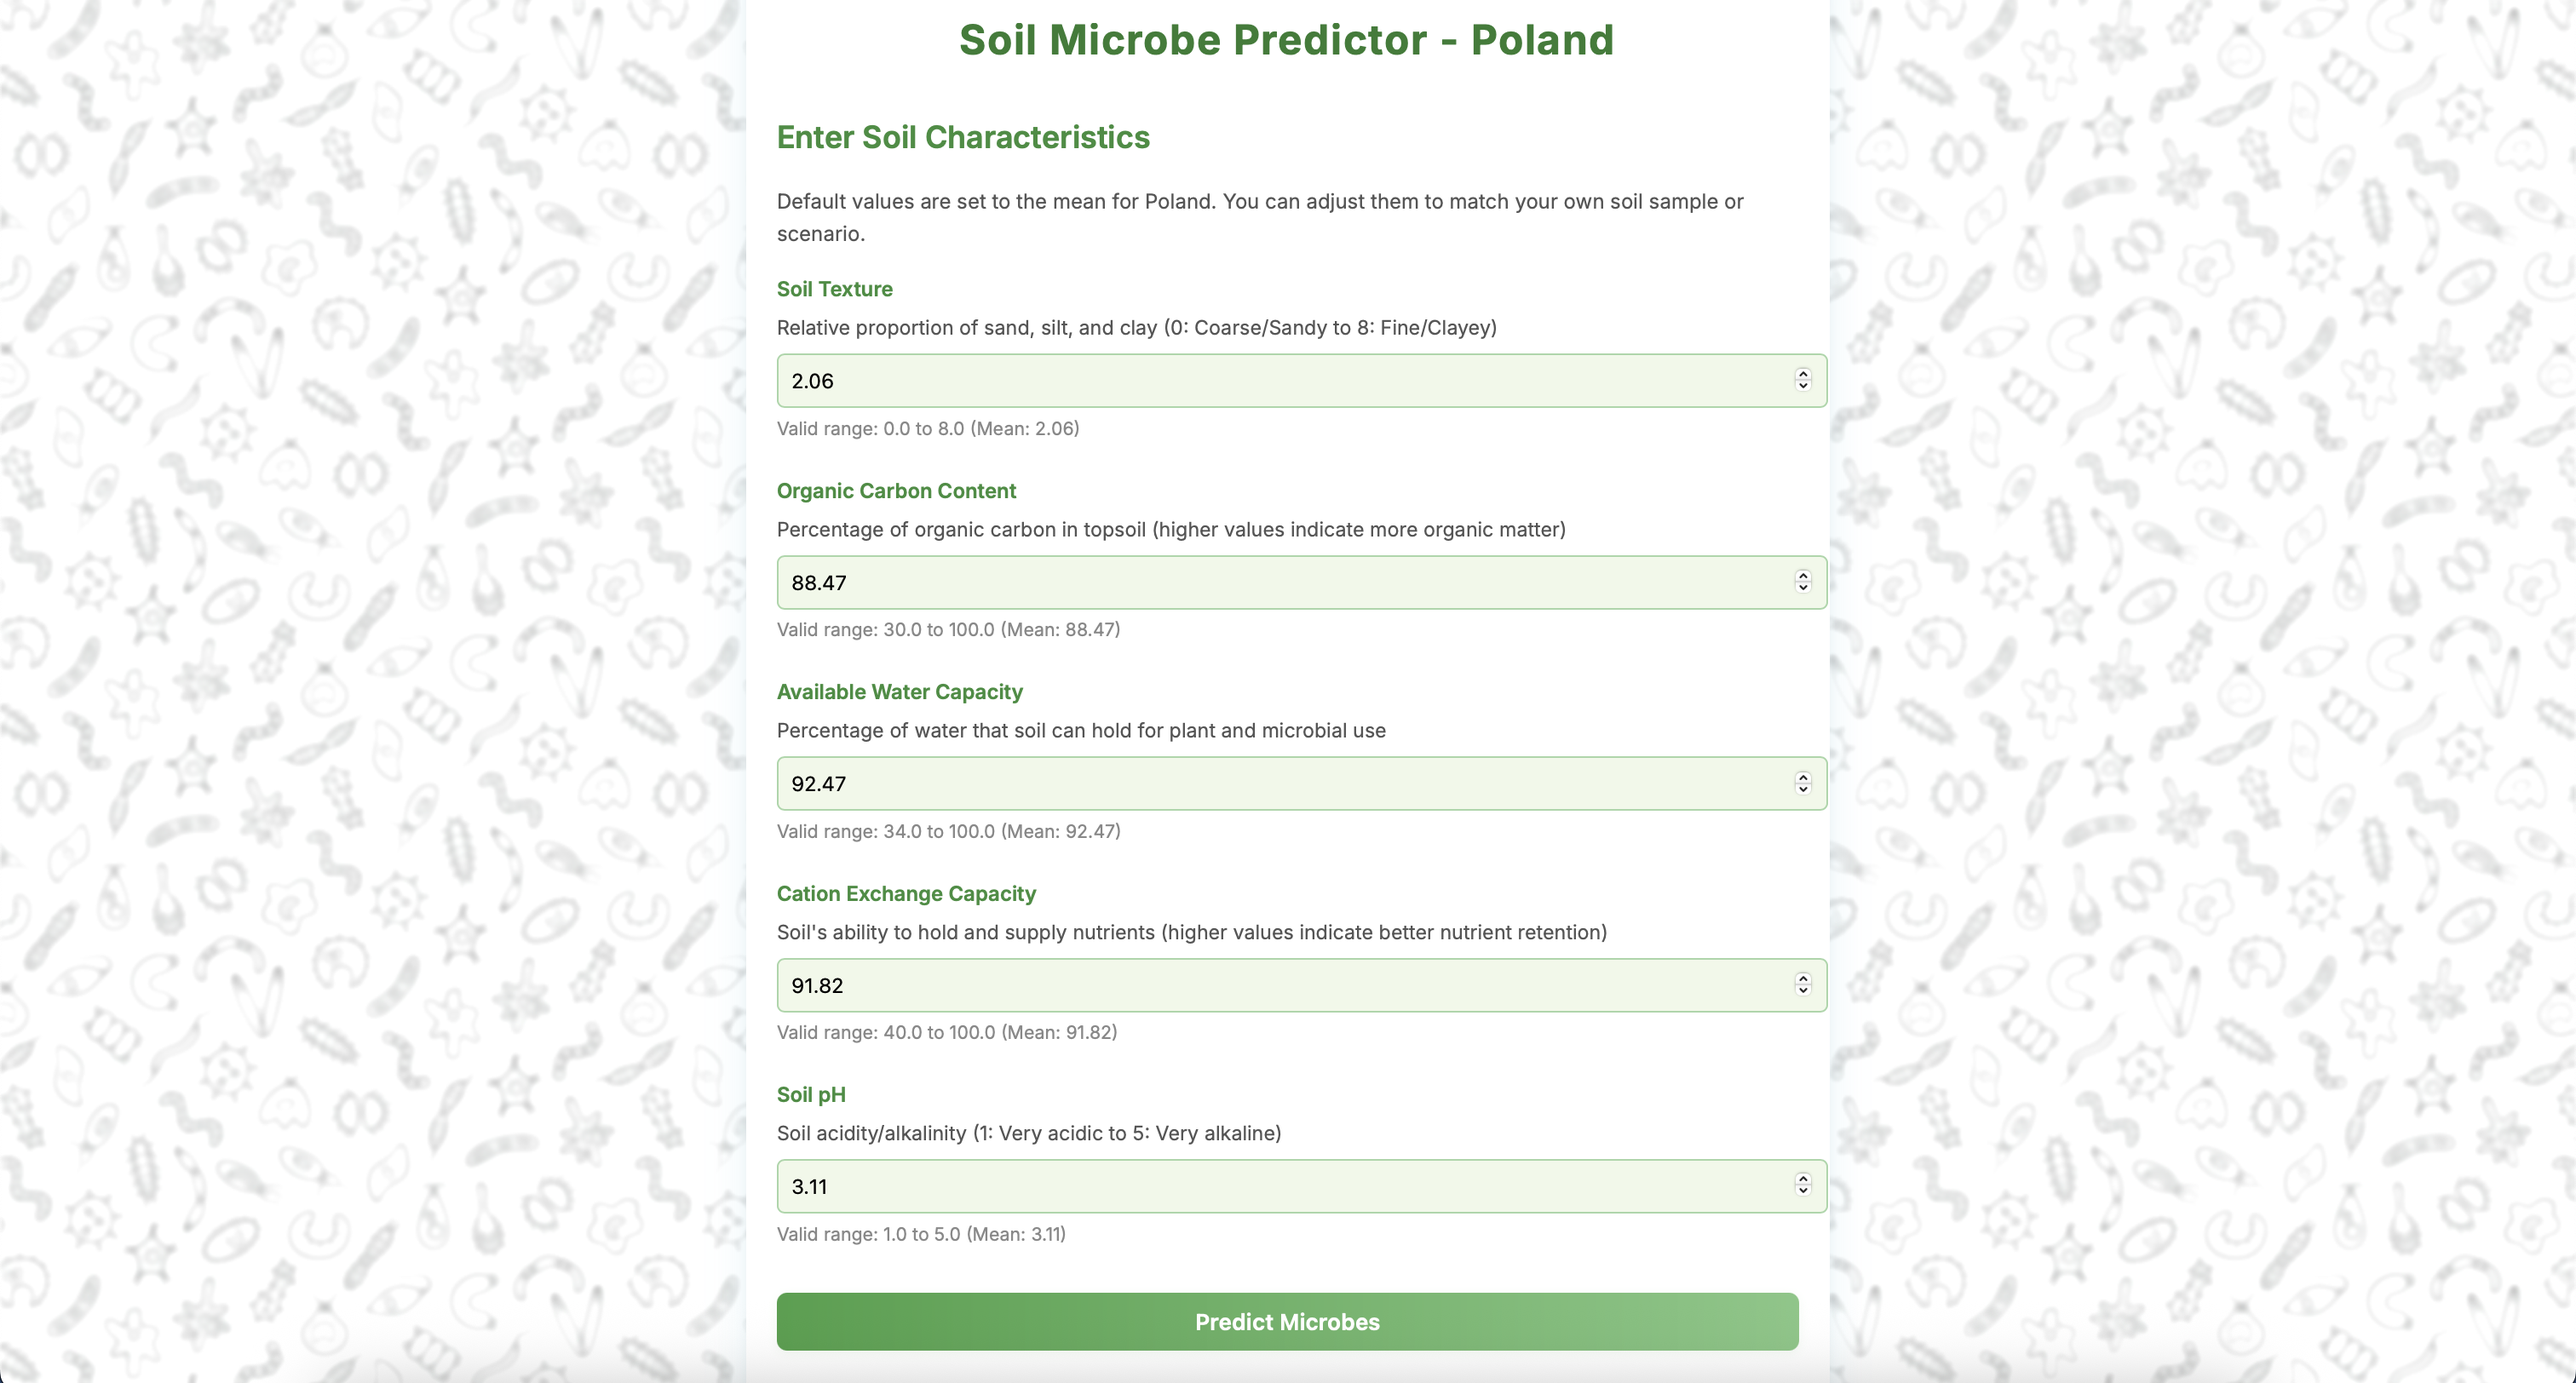
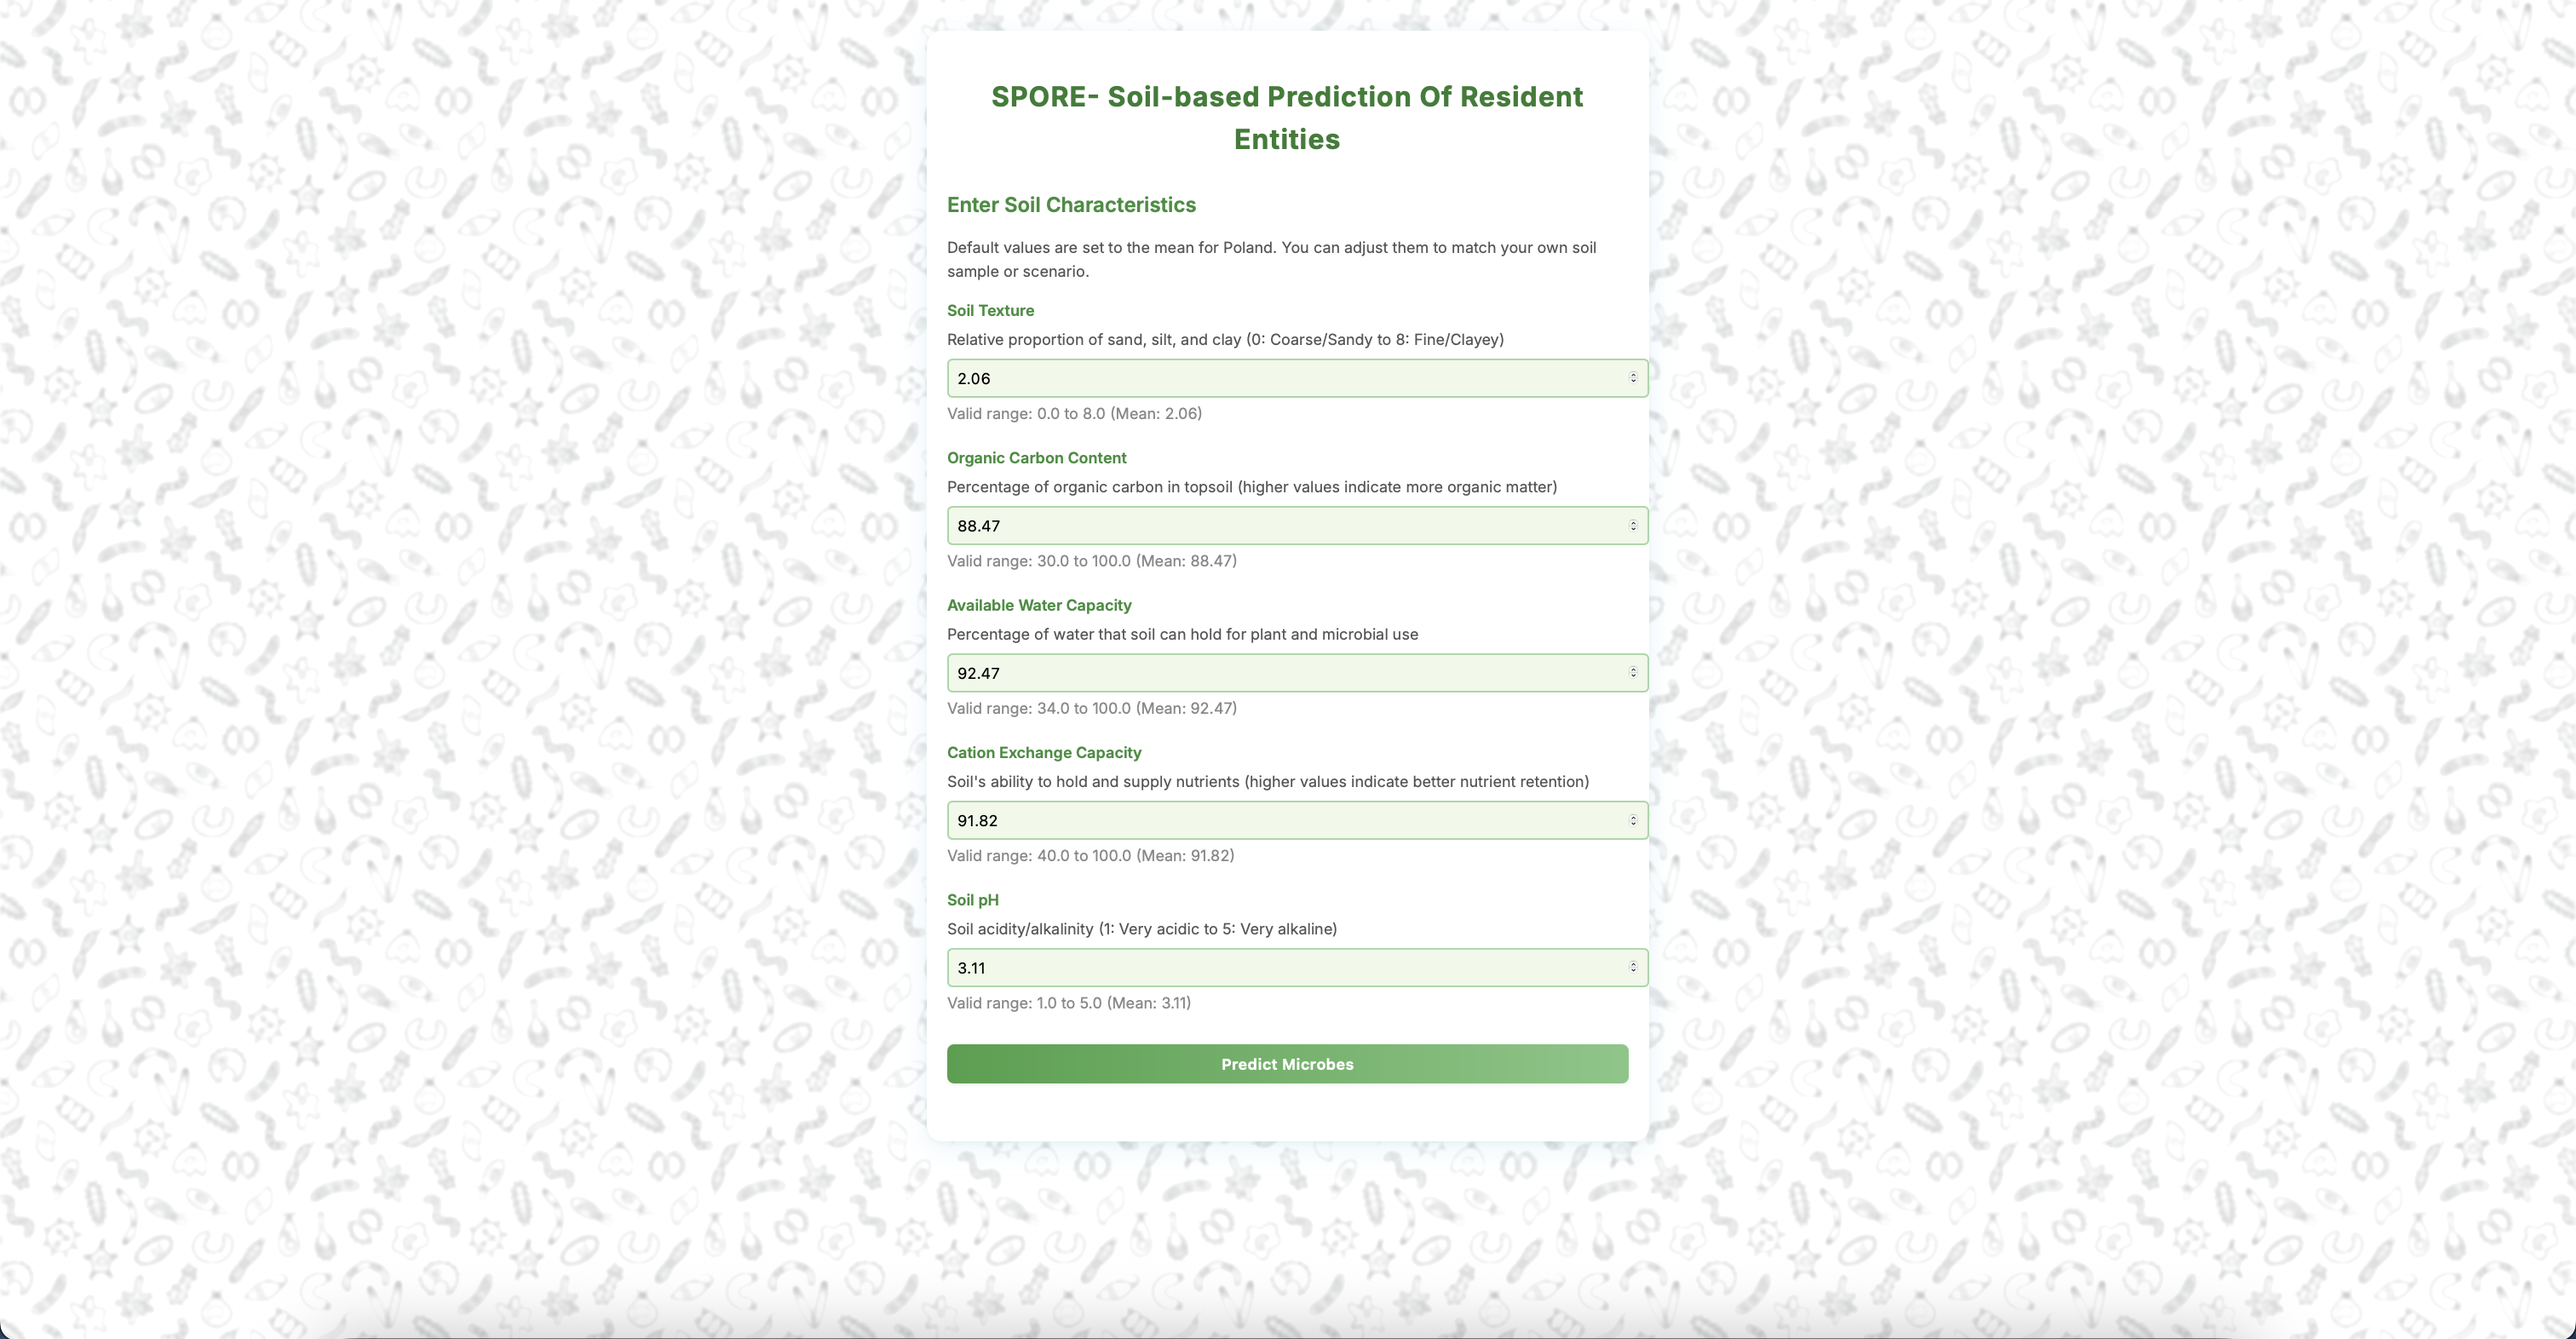
Renamed

diff --git a/templates/index.html b/templates/index.html
@@ -162,7 +162,7 @@
 </head>
 <body>
     <div class="container">
-        <h1>Soil Microbe Predictor - Poland</h1>
+        <h1> SPORE- Soil-based Prediction Of Resident Entities</h1>
         
         <div class="input-section">
             <h2>Enter Soil Characteristics</h2>
